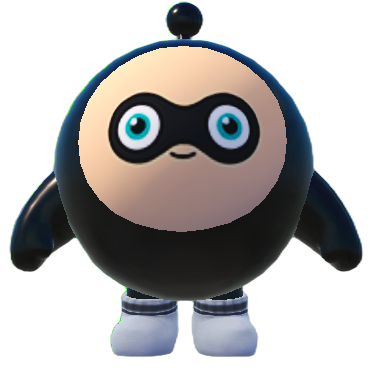
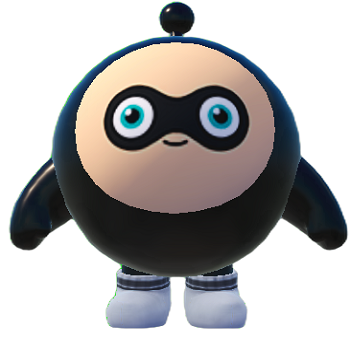
Pet R-key OK

diff --git a/Scripts&APP/DesktopPet/pet.py b/Scripts&APP/DesktopPet/pet.py
@@ -3,7 +3,7 @@
 from PyQt6.QtWidgets import QWidget, QLabel
 from PyQt6.QtCore import Qt
 from PyQt6.QtGui import QIcon, QPixmap
-from qfluentwidgets import RoundMenu
+from qfluentwidgets import RoundMenu, Action
 from util import get_path
 
 class Emoticon_Widget(QWidget):
@@ -31,19 +31,23 @@ class Pet(QWidget):
         self.img = QPixmap(get_path(__file__, "test.png"))
         self.label = QLabel(self)
         self.label.setPixmap(self.img)
+        self.label.setGeometry(0, 0, 350, 350)
+        self.label.setContextMenuPolicy(Qt.ContextMenuPolicy.CustomContextMenu)
+        self.label.customContextMenuRequested.connect(self.show_menu)
         self.label.show()
-        self.setCentralWidget(self.label)
 
     def show_menu(self, pos):
         """
         通过此方法显示右键菜单
         :param pos: 菜单显示位置
         """
-        menu = RoundMenu(self)
-        menu.addAction("Talk", self.talk)
-        menu.addAction("Settings", self.settings)
-        menu.addAction("Exit", self.exit)
-        menu.exec(pos)
+        menu = RoundMenu()
+        menu.addActions([
+            Action("Talk", triggered=self.talk),
+            Action("Settings", triggered=self.settings),
+            Action("Exit", triggered=self.exit)
+        ])
+        menu.exec(self.mapToGlobal(pos))
 
 
     def talk(self):

diff --git a/Scripts&APP/DesktopPet/tray.py b/Scripts&APP/DesktopPet/tray.py
@@ -1,11 +1,12 @@
 # -*- coding: utf-8 -*-
 
-from PyQt6.QtWidgets import QSystemTrayIcon, QWidget
+from PyQt6.QtWidgets import QSystemTrayIcon
 from PyQt6.QtGui import QIcon
+from pet import Pet
 from qfluentwidgets import SystemTrayMenu, Action
 
 class Tray(QSystemTrayIcon):
-    def __init__(self, parent: QWidget=None):
+    def __init__(self, parent: Pet=None):
         super().__init__(parent=parent)
         self.setIcon(parent.windowIcon())
 
